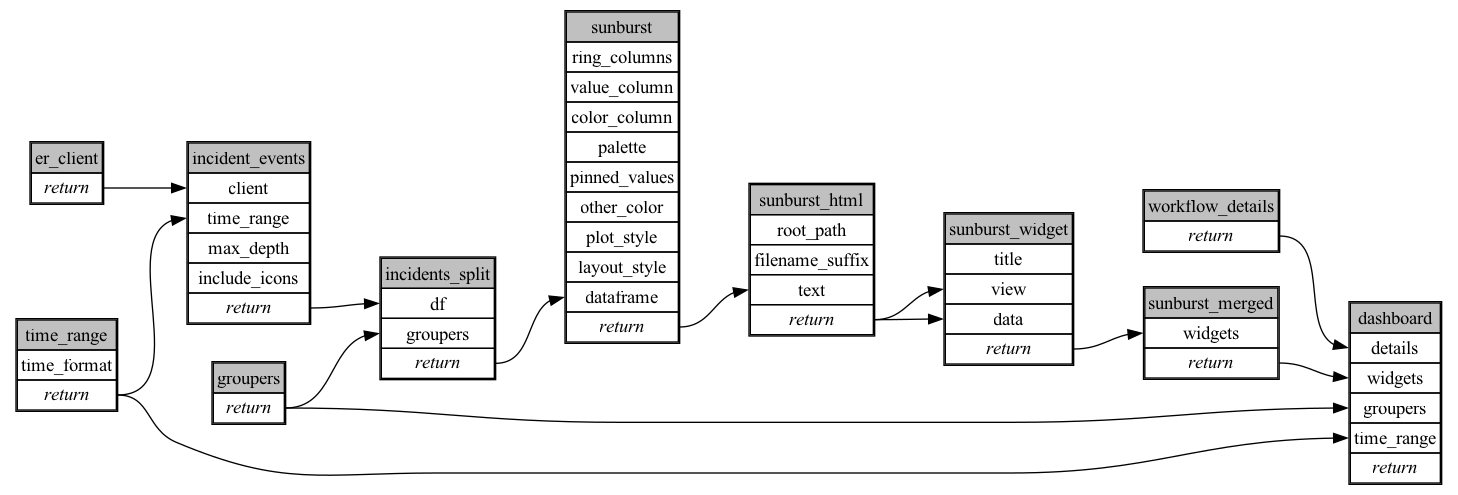
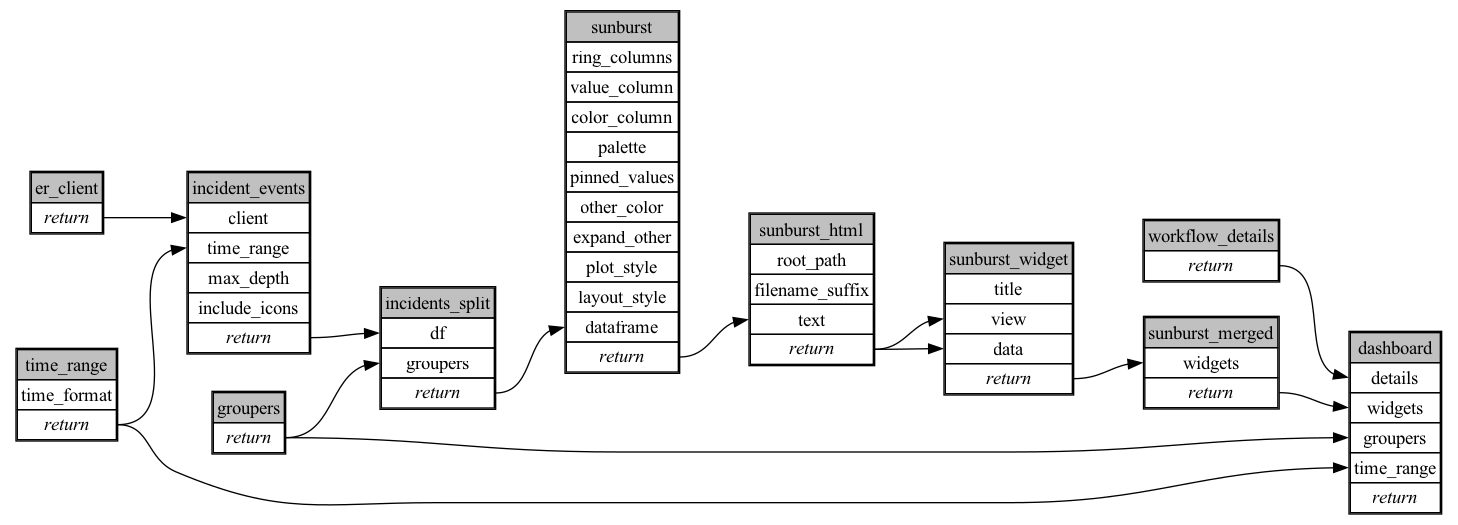
Openable "Other" and clearer field wording (v1.1.0) (#2)
Require ecoscope-platform 2.37.0 and turn on draw_sunburst_chart expand_other,
so incidents grouped into "Other" keep their names; labels run along each slice.
Rename the Top N field to "Show only the biggest incidents" with a clearer
description. Chart snapshots updated.

diff --git a/ecoscope-workflows-incident-sunburst-plot-workflow/ecoscope_workflows_incident_sunburst_plot_workflow/dags/run_sequential.py b/ecoscope-workflows-incident-sunburst-plot-workflow/ecoscope_workflows_incident_sunburst_plot_workflow/dags/run_sequential.py
@@ -162,7 +162,8 @@ def main(params: dict[str, Any], validate_params_schema: bool = True):
             palette=None,
             pinned_values=None,
             other_color=None,
-            plot_style=None,
+            expand_other=True,
+            plot_style={"insidetextorientation": "radial"},
             layout_style=None,
             **(params.get("sunburst") or {}),
         )

diff --git a/ecoscope-workflows-incident-sunburst-plot-workflow/ecoscope_workflows_incident_sunburst_plot_workflow/dags/run_sequential_mock_io.py b/ecoscope-workflows-incident-sunburst-plot-workflow/ecoscope_workflows_incident_sunburst_plot_workflow/dags/run_sequential_mock_io.py
@@ -177,7 +177,8 @@ def main(params: dict[str, Any], validate_params_schema: bool = True):
             palette=None,
             pinned_values=None,
             other_color=None,
-            plot_style=None,
+            expand_other=True,
+            plot_style={"insidetextorientation": "radial"},
             layout_style=None,
             **(params.get("sunburst") or {}),
         )

diff --git a/README.md b/README.md
@@ -21,18 +21,18 @@ Incidents take their colours from the default palette, and each outer slice take
 | Data Source | EarthRanger connection |
 | Time Range | Selects incidents by their own date. **All** of an incident's events are included, even those dated outside the range. |
 | Group by | Optional. **Incident** gives one dashboard view per incident. |
-| Top N (advanced) | Keep the N incidents with the most events, and the N most common event types in each; the rest are merged into "Other (k values)". A single leftover keeps its own slice. Empty shows everything. |
+| Show only the biggest incidents (advanced) | Empty (the default) shows every incident. A number, e.g. 10, keeps the 10 incidents with the most events and joins the rest into one grey "Other (k values)" slice; inside each incident, event types beyond its 10 most common are joined the same way. A single leftover keeps its own slice. Click "Other" to see the grouped incidents by name, and click one of them for its event types. |
 
 ## How it works
 
 ```
 get_incident_events          incidents in the range → their events, with display names
   → split_groups (Incident, or all)
-  → draw_sunburst_chart (rings: incident, event_type_display) → persist_text → plot widget
+  → draw_sunburst_chart (rings: incident, event_type_display; expand_other) → persist_text → plot widget
   → gather_dashboard
 ```
 
-Every task is from `ecoscope-platform` (≥ 2.35.0). Nested incidents are followed up to 5 levels deep (`max_depth: 5`, fixed in `spec.yaml`).
+Every task is from `ecoscope-platform` (≥ 2.37.0). Nested incidents are followed up to 5 levels deep (`max_depth: 5`, fixed in `spec.yaml`).
 
 ## Local development
 

diff --git a/ecoscope-workflows-incident-sunburst-plot-workflow/README.md b/ecoscope-workflows-incident-sunburst-plot-workflow/README.md
@@ -5,17 +5,17 @@
 
 ```yaml
 # fingerprint:
-artifacts_sha256_basic: af34355ab31866e4efb3364b846cac007ce0347ec60bd969b3e23b4ddcf1ce88
-artifacts_sha256_strict: 836f1caba9c3ad98cbbede4bc2ef85005a10c3b936118bb918ab0a8cbc90487f
+artifacts_sha256_basic: 65f4ba1bde6b0ca2081ece25be009c9df7d973da7fe16d4afebe9aa78b175a3e
+artifacts_sha256_strict: b1cbe8000463ffa484d6d4cd8fba9d494eb3761fdb6e5eac7b3a1c83311440ae
 installed_requirements:
 - channel: https://repo.prefix.dev/ecoscope-workflows/
   name: ecoscope-platform
-  version: {version: ==2.36.0}
+  version: {version: ==2.37.0}
 - channel: conda-forge
   name: pydeck
   version: {version: ==0.9.2}
 params_sha256: 0182e189c19301c0bf0e0ddec197368e7a11e7835a823124353a1fab4ae54fe5
-spec_sha256: 767aa525b3e9ddfd9b378d8496838d0ffcd0b33d2caa4da22eeba984bbc197ba
+spec_sha256: a62d8b0402d78478f99d5cebdd9acc142ad6fb3ae1398263e3d7dc70ce9b1d49
 
 ```
 
